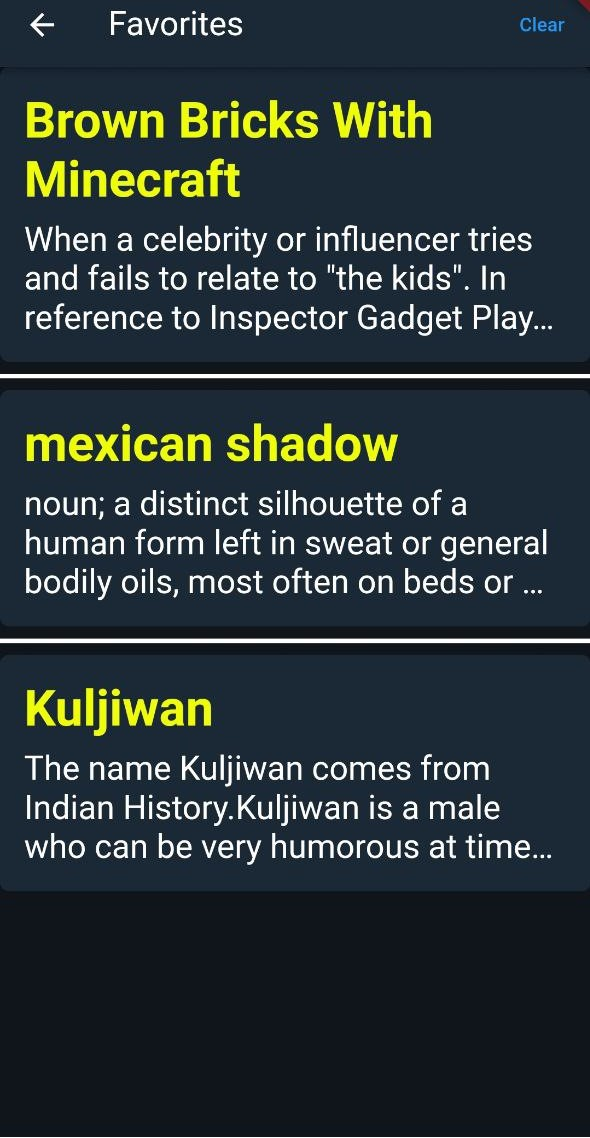
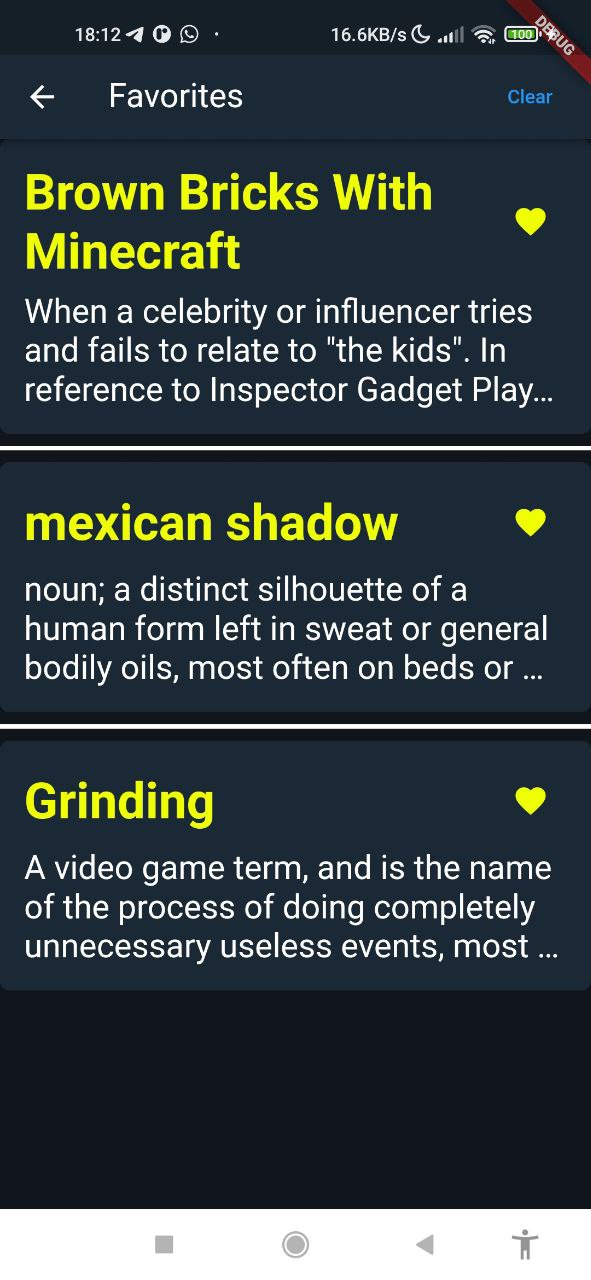
TermListItem: update after showing details

diff --git a/urban_dictionary_wrapper/lib/Widgets/term_list_item.dart b/urban_dictionary_wrapper/lib/Widgets/term_list_item.dart
@@ -1,30 +1,64 @@
 import 'package:flutter/material.dart';
 import 'package:urban_dictionary_wrapper/Widgets/term_details_page.dart';
 
+import '../cache_manager.dart';
 import '../term.dart';
 import '../utils.dart';
 
-class TermListItem extends StatelessWidget {
-  const TermListItem({
-    Key? key,
-    this.term
-  }) : super(key: key);
+class TermListItem extends StatefulWidget {
+  const TermListItem({Key? key, this.term, this.onFavoriteChanged})
+      : super(key: key);
   final Term? term;
+  final Function(bool)? onFavoriteChanged;
+
+  @override
+  State<TermListItem> createState() => _TermListItemState();
+}
+
+class _TermListItemState extends State<TermListItem> {
+  bool isFavorite = false;
+
+  Future<void> checkIfFavorite() async {
+    isFavorite = await Cache.isFavorite(term: widget.term!);
+  }
+
+  @override
+  void initState() {
+    super.initState();
+    WidgetsBinding.instance!.addPostFrameCallback((_) async {
+      checkIfFavorite();
+      setState(() {});
+    });
+  }
 
   @override
   Widget build(BuildContext context) {
     return InkWell(
       onTap: () {
-        if(term == null){
-          ScaffoldMessenger.of(context).showSnackBar(SnackBar(content: Text("Could not open")));
-          //TODO create message box for errors
-        }
-        else {
-          Navigator.push(context,
-              MaterialPageRoute(builder: (context) => TermDetailsPage(term: term,)));
+        if (widget.term == null) {
+          ScaffoldMessenger.of(context)
+              .showSnackBar(SnackBar(content: Text("Could not open")));
+        } else {
+          Navigator.push(
+              context,
+              MaterialPageRoute(
+                  builder: (context) => TermDetailsPage(
+                        term: widget.term,
+                      ))).then((value) => {
+                setState(() {
+                  bool tmp = isFavorite;
+                  checkIfFavorite();
+                  if (tmp != isFavorite) {
+                    if (widget.onFavoriteChanged != null) {
+                      widget.onFavoriteChanged!(isFavorite);
+                    }
+                  }
+                })
+              });
         }
       },
       child: Container(
+        width: MediaQuery.of(context).size.width,
         decoration: BoxDecoration(
             color: Theme.of(context).backgroundColor,
             borderRadius: BorderRadius.circular(6)),
@@ -32,13 +66,44 @@ class TermListItem extends StatelessWidget {
         child: Column(
           crossAxisAlignment: CrossAxisAlignment.stretch,
           children: [
-            Text(
-              term?.word??"Null",
-              style: Theme.of(context).textTheme.headline4,
+            Row(
+              mainAxisAlignment: MainAxisAlignment.spaceBetween,
+              children: [
+                Expanded(
+                  flex: 3,
+                  child: Text(
+                    widget.term?.word ?? "Null",
+                    style: Theme.of(context).textTheme.headline4,
+                    maxLines: 3,
+                    overflow: TextOverflow.clip,
+                  ),
+                ),
+                IconButton(
+                  onPressed: () {
+                    if (widget.term == null) {
+                      return;
+                    }
+                    if (isFavorite) {
+                      Cache.removeFromFavorites(term: widget.term!);
+                      setState(() {
+                        isFavorite = false;
+                      });
+                    } else {
+                      Cache.addToFavorites(term: widget.term!);
+                      setState(() {
+                        isFavorite = true;
+                      });
+                    }
+                  },
+                  icon:
+                      Icon(isFavorite ? Icons.favorite : Icons.favorite_border),
+                  color: Theme.of(context).indicatorColor,
+                ),
+              ],
             ),
             SizedBox(height: 8),
             Text(
-              Term.formatDefinition(term?.definition??"Null") ,
+              Term.formatDefinition(widget.term?.definition ?? "Null"),
               style: Theme.of(context).textTheme.bodyText1,
               overflow: TextOverflow.ellipsis,
               maxLines: 3,

diff --git a/urban_dictionary_wrapper/lib/Widgets/favorites_page.dart b/urban_dictionary_wrapper/lib/Widgets/favorites_page.dart
@@ -27,7 +27,11 @@ class FavoritesPageState extends State<FavoritesPage>{
       });
     });
   }
-
+  void onFavoriteChanged(bool isFavorite){
+    setState(() {
+      getTerms();
+    });
+  }
   @override
   Widget build(BuildContext context) {
     return Scaffold(
